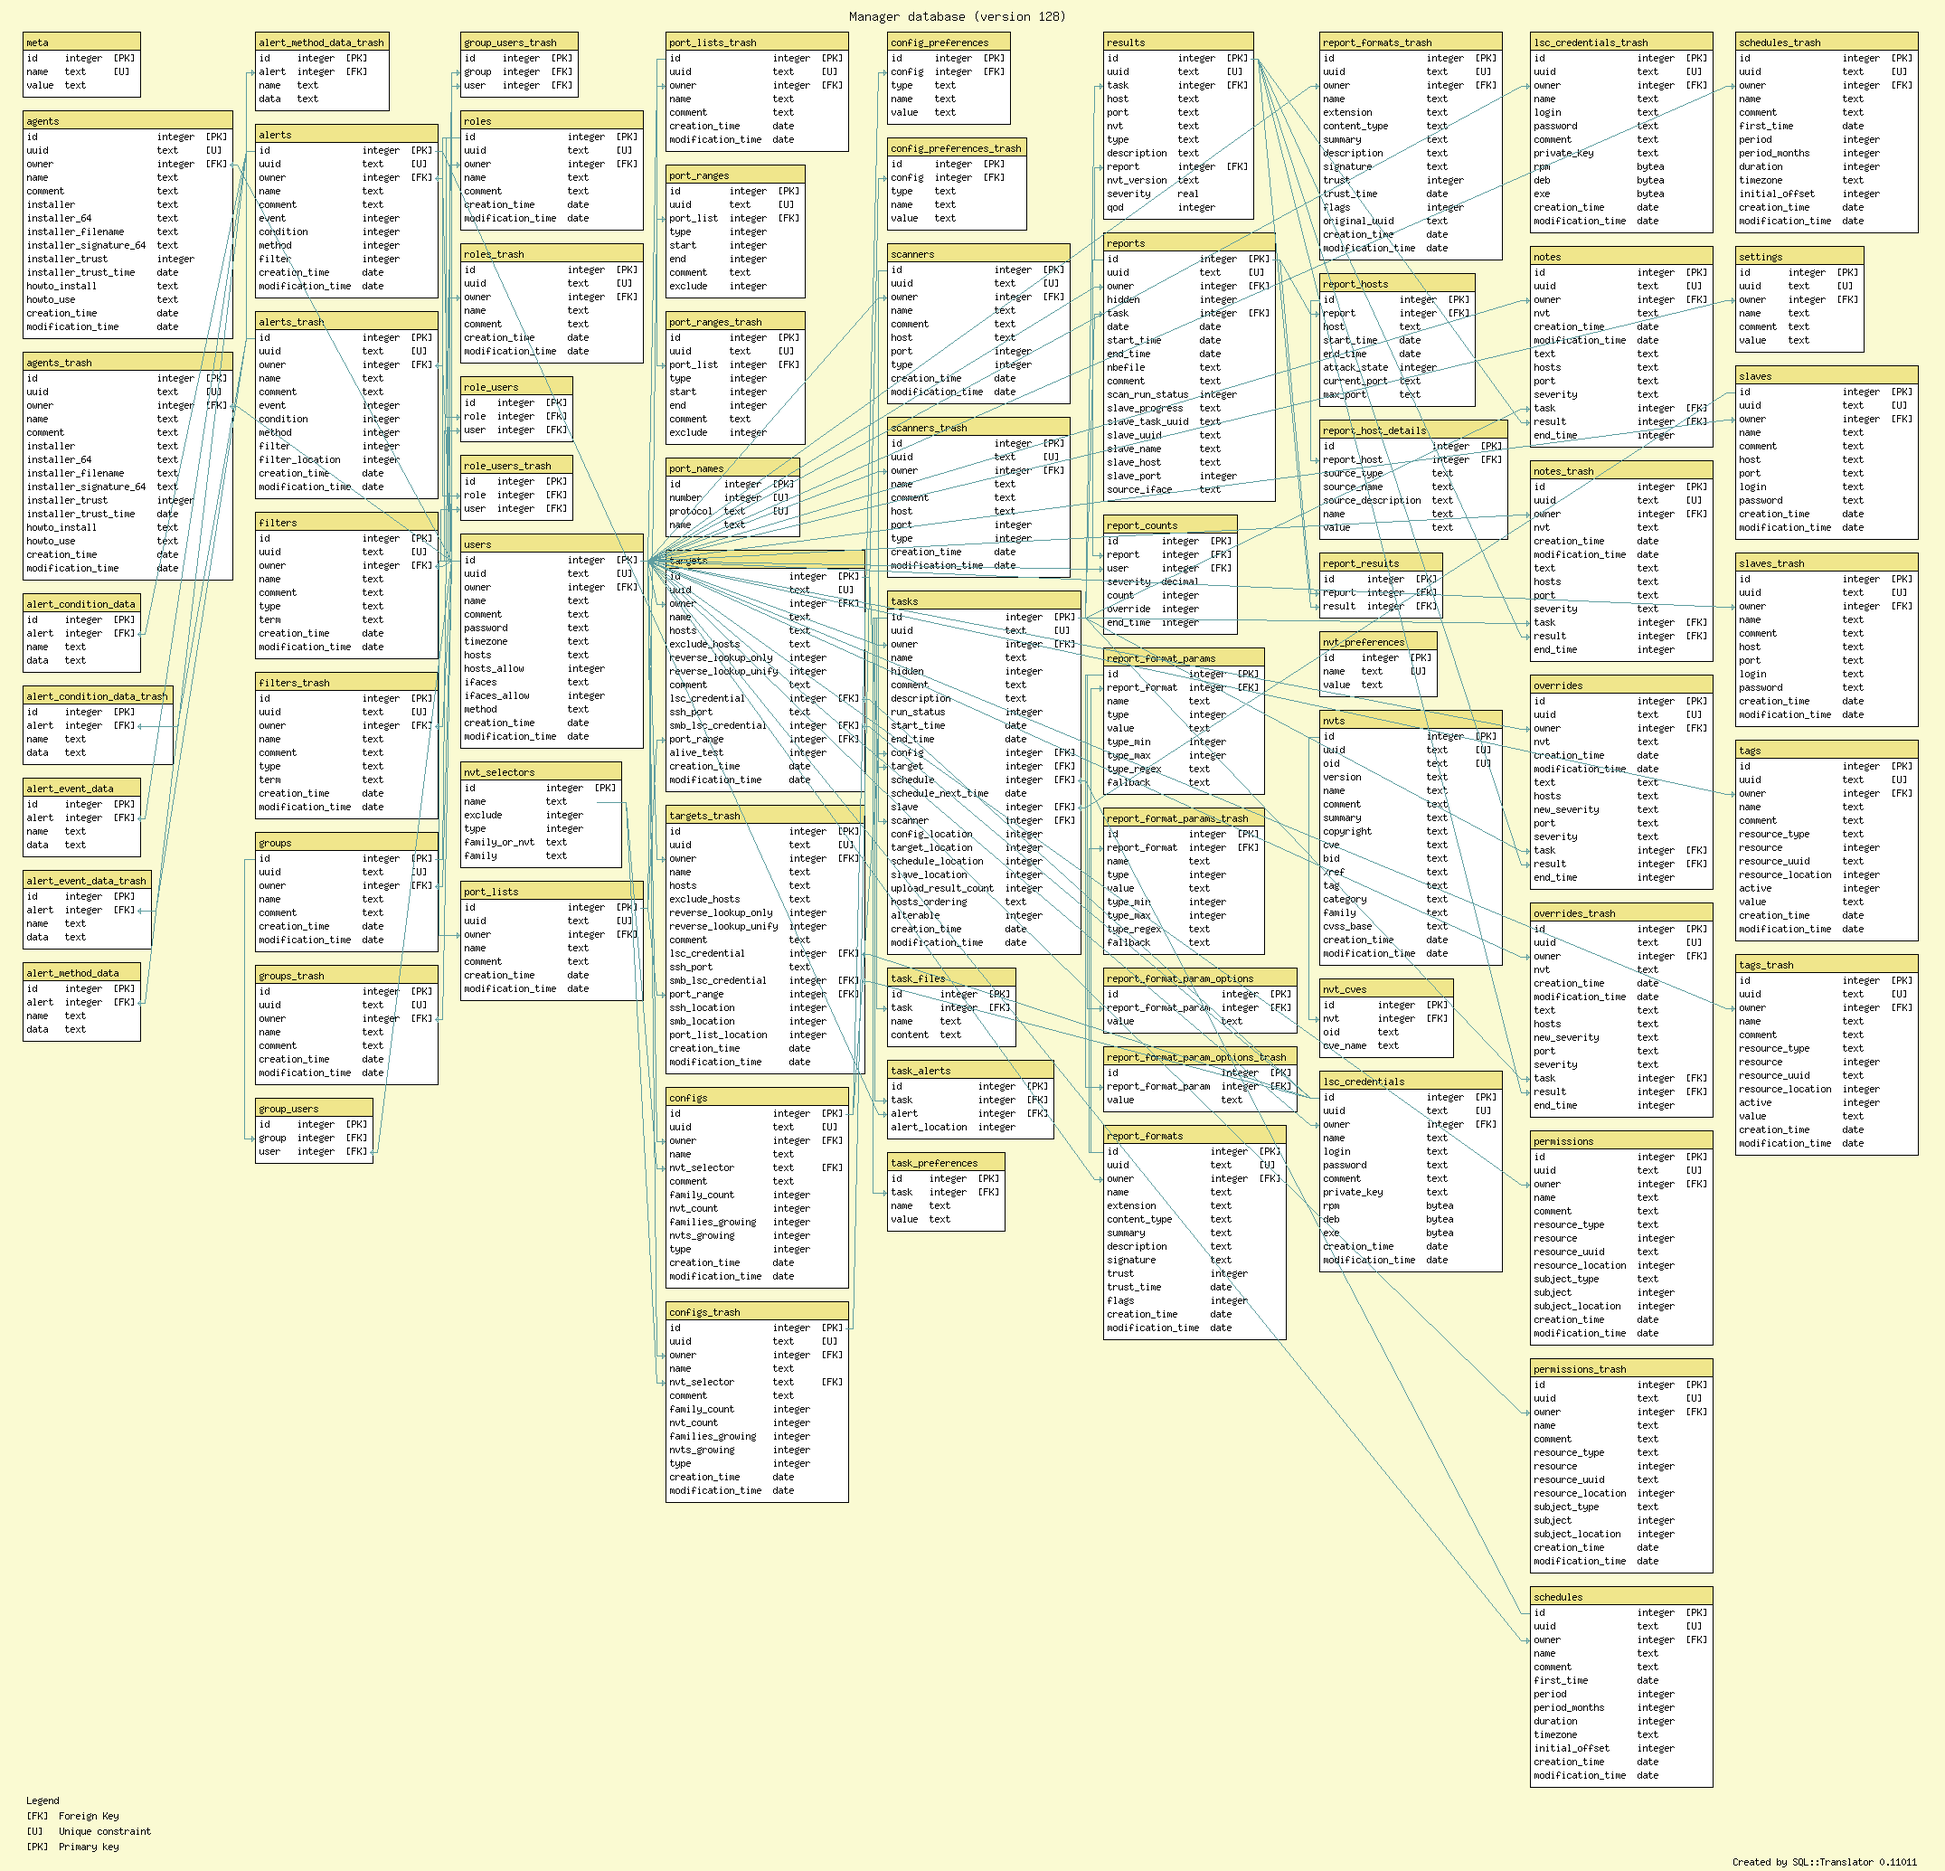
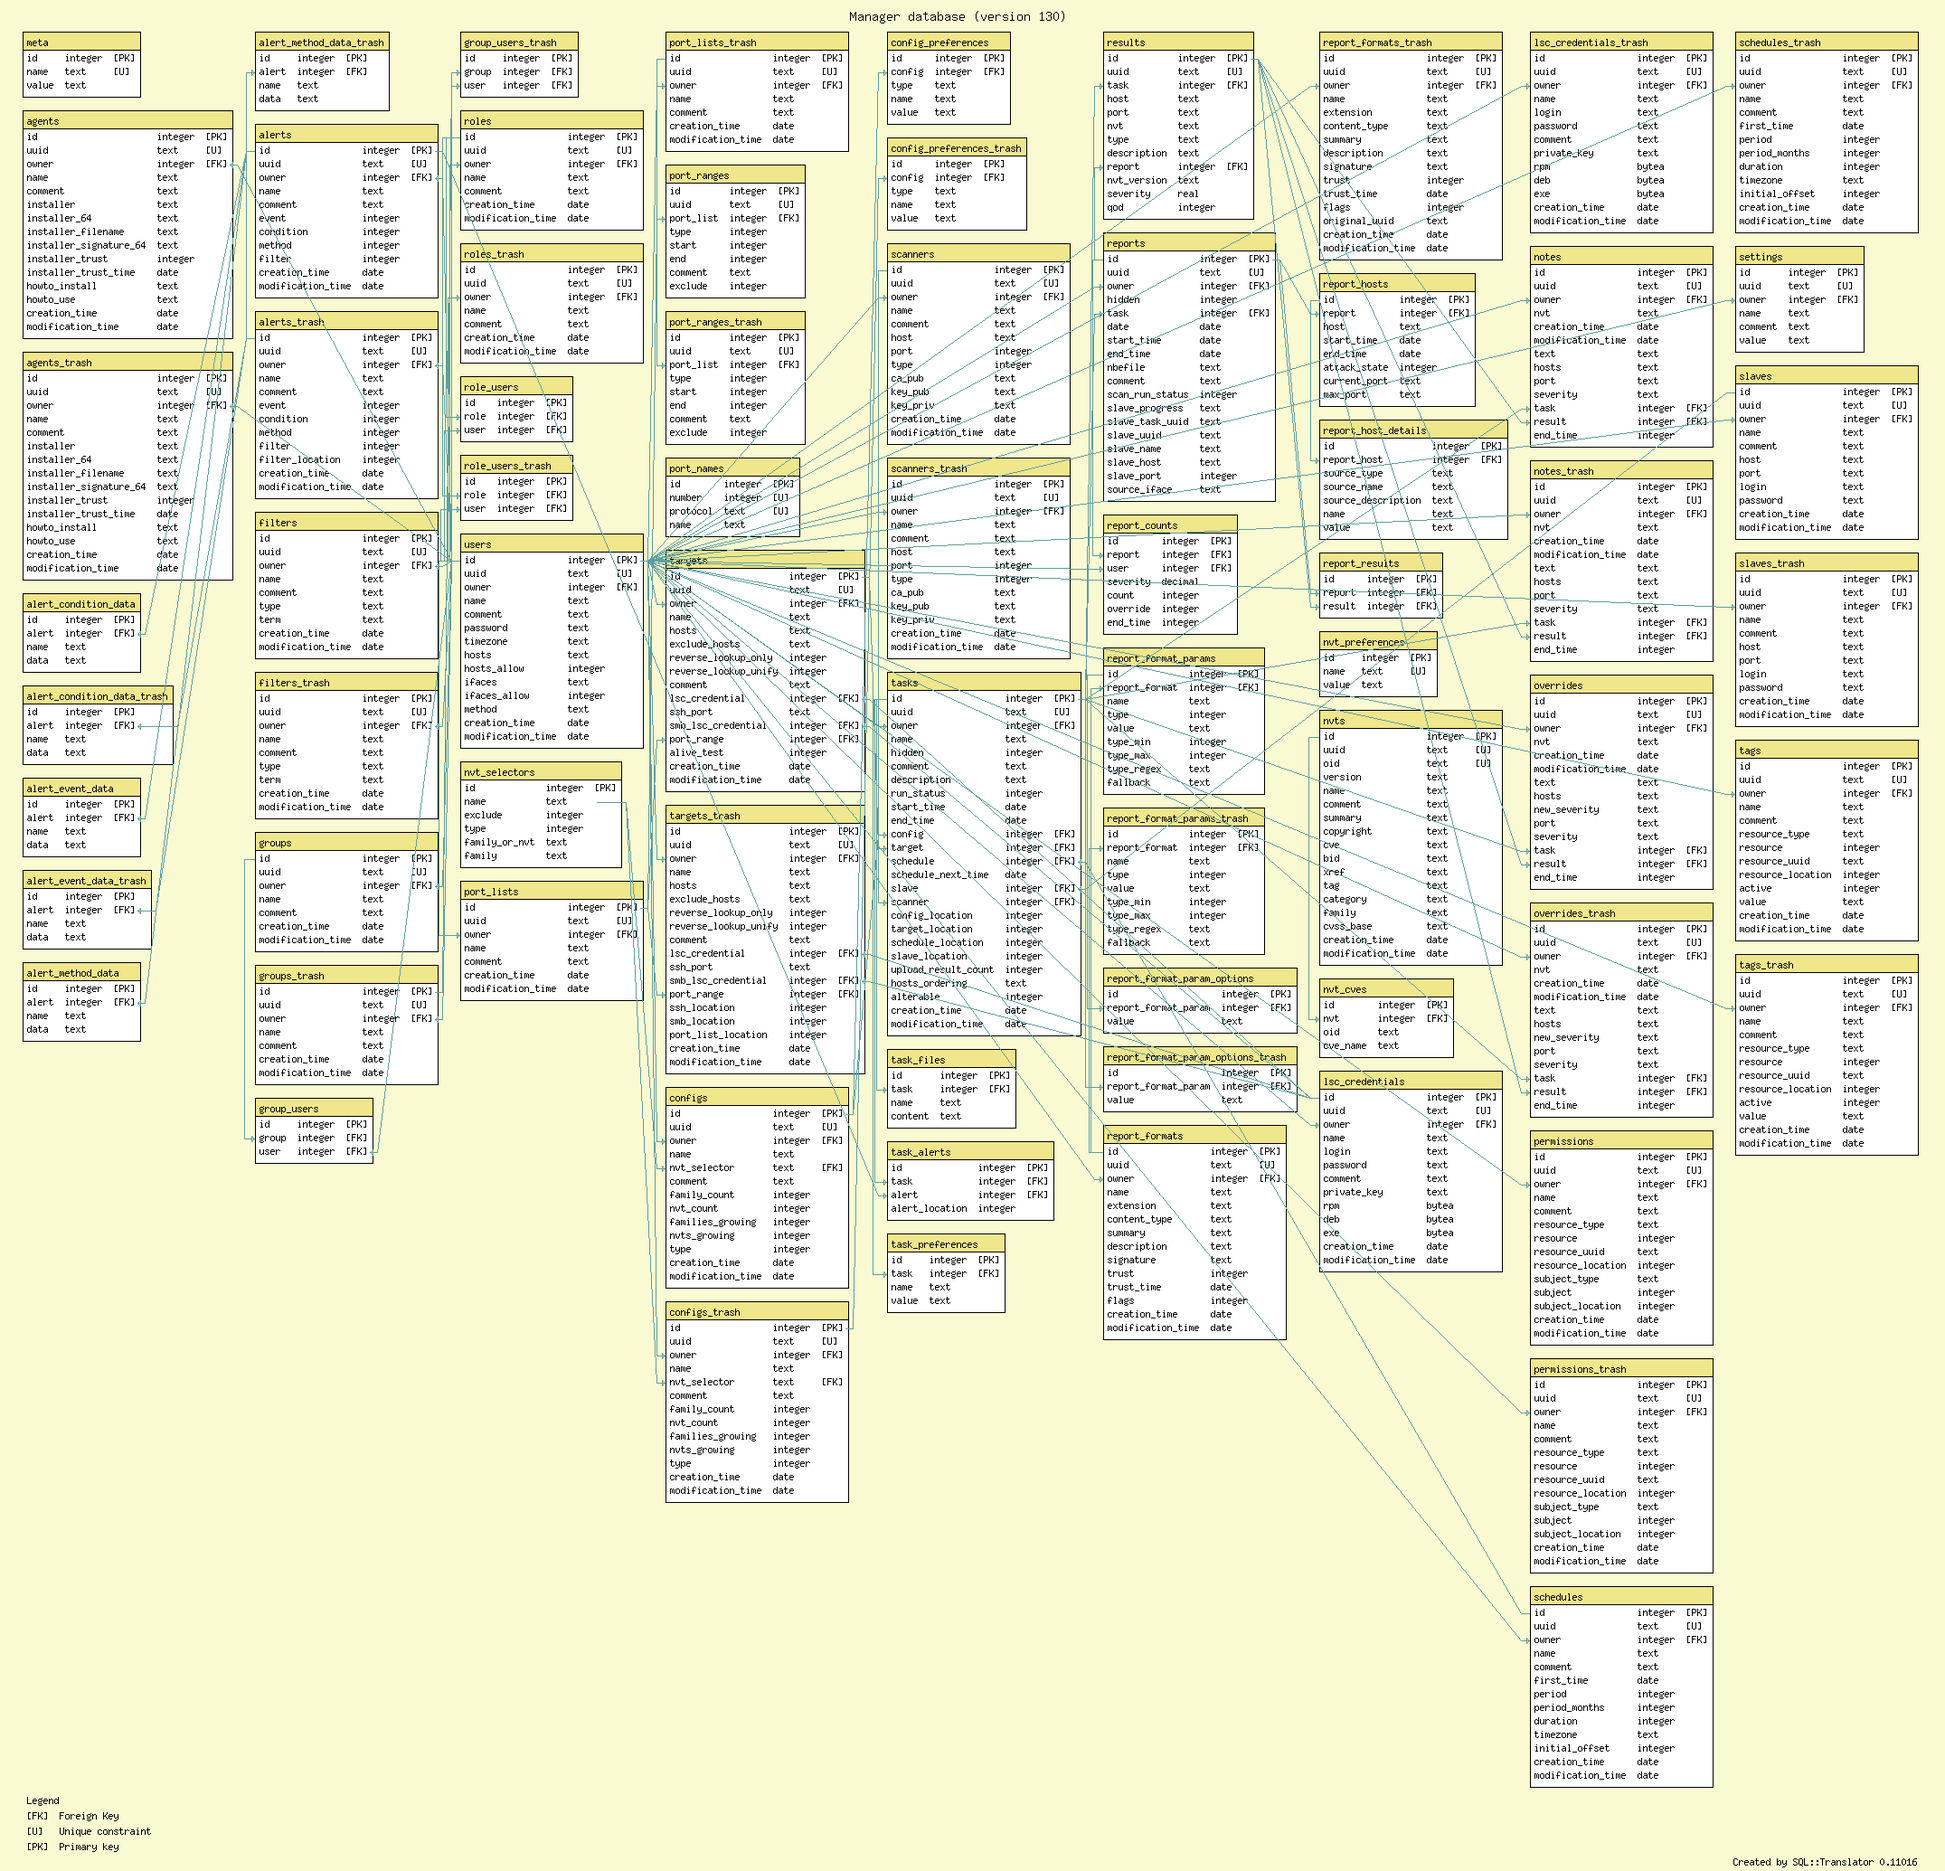
Add scanners columns for ca cert and client key pairs. Hence increase database version to 130. Add database migration from version 129 to 130.
* CMakeLists.txt (OPENVASMD_DATABASE_VERSION): Increase to 130.

* src/manage_migrators.c (migrate_129_to_130): New function.
(database_migrators): Add migrate_129_to_130.

* src/manage_pg.c, src/manage_sqlite3.c (create_tables): Add ca_pub,
key_pub and key_priv columns to scanners and scanners_trash tables
creation.

* doc/db_postgres.sql (scanners, scanners_trash): Add new columns.

* doc/db.png: Update documentation.

git-svn-id: svn+ssh://scm.wald.intevation.org/openvas/trunk/openvas-manager@19882 423fd1db-d629-0410-8442-d21db03e70f4

Changed region(s): [[0.4361, 0.464, 0.5607, 0.7115], [0.4361, 0.2165, 0.5607, 0.3712], [0.4672, 0.4021, 0.4984, 0.4331]]

diff --git a/src/manage_migrators.c b/src/manage_migrators.c
@@ -9235,6 +9235,86 @@ migrate_128_to_129 ()
 }
 
 /**
+ * @brief Migrate the database from version 129 to version 130.
+ *
+ * @return 0 success, -1 error.
+ */
+int
+migrate_129_to_130 ()
+{
+  char *ca_pub, *key_pub, *key_priv;
+  char *quoted_ca_pub, *quoted_key_pub, *quoted_key_priv;
+  GError *error = NULL;
+
+  sql_begin_exclusive ();
+
+  /* Ensure that the database is currently version 129. */
+
+  if (manage_db_version () != 129)
+    {
+      sql ("ROLLBACK;");
+      return -1;
+    }
+
+  /* Update the database. */
+
+  /* Add columns for per-scanner certificates. */
+
+  sql ("ALTER TABLE scanners ADD COLUMN ca_pub;");
+  sql ("ALTER TABLE scanners ADD COLUMN key_pub;");
+  sql ("ALTER TABLE scanners ADD COLUMN key_priv;");
+  sql ("ALTER TABLE scanners_trash ADD COLUMN ca_pub;");
+  sql ("ALTER TABLE scanners_trash ADD COLUMN key_pub;");
+  sql ("ALTER TABLE scanners_trash ADD COLUMN key_priv;");
+
+  /* Fetch default certificates content. */
+  if (!g_file_get_contents (CACERT, &ca_pub, NULL, &error))
+    {
+      g_warning ("%s: %s\n", __FUNCTION__, error->message);
+      g_error_free (error);
+      return -1;
+    }
+  if (!g_file_get_contents (CLIENTCERT, &key_pub, NULL, &error))
+    {
+      g_warning ("%s: %s\n", __FUNCTION__, error->message);
+      g_error_free (error);
+      g_free (ca_pub);
+      return -1;
+    }
+  if (!g_file_get_contents (CLIENTKEY, &key_priv, NULL, &error))
+    {
+      g_warning ("%s: %s\n", __FUNCTION__, error->message);
+      g_error_free (error);
+      g_free (ca_pub);
+      g_free (key_pub);
+      return -1;
+    }
+
+  /* Update current scanners to store default certificates in DB. */
+  quoted_ca_pub = sql_quote (ca_pub);
+  quoted_key_pub = sql_quote (key_pub);
+  quoted_key_priv = sql_quote (key_priv);
+  g_free (ca_pub);
+  g_free (key_pub);
+  g_free (key_priv);
+  sql ("UPDATE scanners SET ca_pub = '%s', key_pub = '%s', key_priv = '%s';",
+       quoted_ca_pub, quoted_key_pub, quoted_key_priv);
+  sql ("UPDATE scanners_trash SET ca_pub = '%s', key_pub = '%s',"
+       "       key_priv = '%s';",
+       quoted_ca_pub, quoted_key_pub, quoted_key_priv);
+  g_free (quoted_ca_pub);
+  g_free (quoted_key_pub);
+  g_free (quoted_key_priv);
+
+  /* Set the database version to 130. */
+  set_db_version (130);
+
+  sql ("COMMIT;");
+
+  return 0;
+}
+
+/**
  * @brief Array of database version migrators.
  */
 static migrator_t database_migrators[]
@@ -9368,6 +9448,7 @@ static migrator_t database_migrators[]
     {127, migrate_126_to_127},
     {128, migrate_127_to_128},
     {129, migrate_128_to_129},
+    {130, migrate_129_to_130},
     /* End marker. */
     {-1, NULL}};
 

diff --git a/src/manage_sqlite3.c b/src/manage_sqlite3.c
@@ -2080,10 +2080,12 @@ create_tables ()
        " (id INTEGER PRIMARY KEY, role INTEGER, user INTEGER);");
   sql ("CREATE TABLE IF NOT EXISTS scanners"
        " (id INTEGER PRIMARY KEY, uuid, owner INTEGER, name, comment,"
-       "  host, port, type, creation_time, modification_time);");
+       "  host, port, type, ca_pub, key_pub, key_priv,"
+       "  creation_time, modification_time);");
   sql ("CREATE TABLE IF NOT EXISTS scanners_trash"
        " (id INTEGER PRIMARY KEY, uuid, owner INTEGER, name, comment,"
-       "  host, port, type, creation_time, modification_time);");
+       "  host, port, type, ca_pub, key_pub, key_priv,"
+       "  creation_time, modification_time);");
   sql ("CREATE TABLE IF NOT EXISTS schedules"
        " (id INTEGER PRIMARY KEY, uuid, owner INTEGER, name, comment,"
        "  first_time, period, period_months, duration, timezone,"

diff --git a/src/manage_pg.c b/src/manage_pg.c
@@ -981,6 +981,9 @@ create_tables ()
        "  host text,"
        "  port integer,"
        "  type integer,"
+       "  ca_pub text,"
+       "  key_pub text,"
+       "  key_priv text,"
        "  creation_time integer,"
        "  modification_time integer);");
 
@@ -993,6 +996,9 @@ create_tables ()
        "  host text,"
        "  port integer,"
        "  type integer,"
+       "  ca_pub text,"
+       "  key_pub text,"
+       "  key_priv text,"
        "  creation_time integer,"
        "  modification_time integer);");
 
